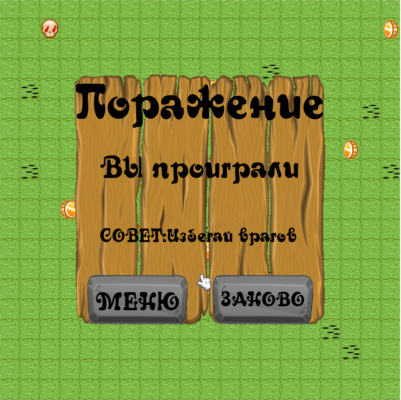
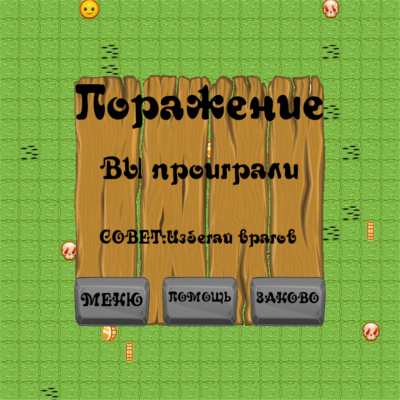
Added help

diff --git a/CollectorGame/gui.py b/CollectorGame/gui.py
@@ -5,7 +5,7 @@ This is module, which contains GUI Classes.
 """
 
 import pygame  # type: ignore
-from typing import List, Tuple, Optional
+from typing import List, Tuple, Optional, Callable
 import CollectorGame.images as images
 import CollectorGame.utils as ut
 
@@ -136,7 +136,8 @@ class Button(GuiObject):
                  tname: str,
                  image: ut.Image,
                  image_p: Optional[ut.Image] = None,
-                 text: Optional[Tuple[str, str]] = None) -> None:
+                 text: Optional[Tuple[str, str]] = None,
+                 bfunc: Callable[[int, int], int] = ut.bfunc_minc) -> None:
         """Initialise Button element"""
         super().__init__(pos, size, tname)
 
@@ -145,6 +146,7 @@ class Button(GuiObject):
         if image_p:
             self.image_pressed = pygame.transform.scale(image_p, self.size)
 
+        self.bfunc = bfunc
         self.text: Optional[TextBox] = None
         if text:
             text_pos_x = int(self.pos[0] + 0.08*self.size[0])
@@ -170,7 +172,8 @@ class Button(GuiObject):
             for t_idx, trigger in enumerate(triggers):
                 tname, tval, tmax_val = trigger
                 if tname == self.trigger_name:
-                    triggers[t_idx] = tname, (tval+1) % tmax_val, tmax_val
+                    tnew_val = self.bfunc(tval, tmax_val)
+                    triggers[t_idx] = tname, tnew_val, tmax_val
                     break
 
     def draw(self, surface: ut.Image,
@@ -347,18 +350,24 @@ class SplashScreen(MenuMode):
 
         super().__init__(splash, (pos_x, pos_y))
 
-        menu_pos = pos_x+25, pos_y+400
-        res_pos = pos_x+275, pos_y+400
+        menu_pos = pos_x, pos_y+400
+        help_pos = pos_x+175, pos_y+400
+        res_pos = pos_x+350, pos_y+400
         title_pos = pos_x, pos_y
         text1_pos = pos_x+50, pos_y+150
         text2_pos = pos_x+50, pos_y+300
 
-        b_size = (200, 100)
+        b_size = (150, 100)
 
         menu_text = ('МЕНЮ', ut.GAME_FONT)
+        help_text = ('ПОМОЩЬ', ut.GAME_FONT)
         restart_text = ('ЗАНОВО', ut.GAME_FONT)
+
         menu = Button(menu_pos, b_size, 'menu', images.BUTT_TMP_IMG,
                       images.BUTT_TMP_PRESSED_IMG, menu_text)
+        help = Button(help_pos, b_size, 'help', images.BUTT_TMP_IMG,
+                      images.BUTT_TMP_PRESSED_IMG, help_text)
+
         restart = Button(res_pos, b_size, 'restart', images.BUTT_TMP_IMG,
                          images.BUTT_TMP_PRESSED_IMG, restart_text)
 
@@ -366,10 +375,10 @@ class SplashScreen(MenuMode):
         text1_box = TextBox(text1_pos, (400, 100), text1, ut.GAME_FONT)
         text2_box = TextBox(text2_pos, (400, 100), text2, ut.GAME_FONT)
 
-        my_gui = [title_box, text1_box, text2_box, menu, restart]
+        my_gui = [title_box, text1_box, text2_box, menu, help, restart]
         self.gui: List[GuiObject] = my_gui
 
-        triggers = [('restart', 0, 2), ('menu', 0, 2)]
+        triggers = [('restart', 0, 2), ('menu', 0, 2), ('help', 0, 2)]
         self.triggers: List[ut.Trigger] = triggers
 
     def main_loop(self, screen: ut.Image) -> bool:
@@ -392,6 +401,12 @@ class SplashScreen(MenuMode):
             elif self.triggers[1][1] == 1:
                 self.leave()
                 return False
+            elif self.triggers[2][1] == 1:
+                help_dialog = HelpScreen()
+                if help_dialog.main_loop(screen) is False:
+                    self.leave()
+                    return False
+                self.triggers[2] = self.triggers[2][0], 0, self.triggers[2][2]
 
     def events(self, events: ut.Event,
                screen: ut.Image) -> bool:
@@ -414,3 +429,190 @@ class SplashScreen(MenuMode):
                     self.gui[self.focused].init_pup(event.pos, self.triggers)
                     self.pressed_down = False
         return True
+
+
+class HelpScreen(MenuMode):
+    """Primitive help screen
+
+    Show results of your game + give options to restart or quit.
+    """
+
+    def __init__(self) -> None:
+        """Initialise HelpScreen"""
+        dialog_size = (ut.BSIZE[0] * ut.TILE, ut.BSIZE[1] * ut.TILE)
+        pos_x = int(ut.BSIZE[0] * ut.TILE / 2 - dialog_size[0] / 2)
+        pos_y = int(ut.BSIZE[1] * ut.TILE / 2 - dialog_size[1] / 2)
+
+        menu_img = pygame.transform.scale(images.MENU_IMG, dialog_size)
+        super().__init__(menu_img, (pos_x, pos_y))
+
+        title_pos = int(0.1*dialog_size[0]), int(0.1*dialog_size[1])
+        title_size = int(0.8*dialog_size[0]), int(0.5*dialog_size[1])
+        title_box = TextBox(title_pos, title_size, "ПОМОЩЬ", ut.GAME_FONT)
+
+        bprev_pos = (50, 650)
+        bnext_pos = (650, 650)
+        bquit_pos = (675, 25)
+        bsize = (100, 100)
+        bprev = Button(bprev_pos, bsize, 'page_pos', images.BUTT_BCK_IMG,
+                       None, None, ut.bfunc_cdec)
+        bnext = Button(bnext_pos, bsize, 'page_pos', images.BUTT_NXT_IMG,
+                       None, None, ut.bfunc_cinc)
+        bquit = Button(bquit_pos, bsize, 'quit', images.BUTT_CLS_IMG,
+                       None, None, ut.bfunc_cinc)
+
+        htext_pos = (300, 650)
+        htext_size = (400, 100)
+
+        self.help_pages: List[List[GuiObject]] = []
+        for x in range(4):
+            tbox = TextBox(htext_pos, htext_size, str(x+1)+'/4', ut.GAME_FONT)
+            self.help_pages.append([tbox])
+
+        self.help_pages[0].extend(self.gen_first_help_page())
+
+        lines = ['Основной игрок. Понятия не имеет, зачем ему эти монеты.',
+                 'Зато умеет ходить и ставить бомбы, но откуда они у него?',
+                 'Что он скрывает за своей улыбкой? Никто не знает...']
+        self.help_pages[1].extend(self.gen_help_page(images.MAN_IMG[0], lines))
+
+        img = images.MONEY_IMG[0]
+        lines = ['Монетка, причём судя по всему шоколадная, т.к. боится огня.',
+                 'Так как нужно собрать ВСЕ монетки, утрата одной означает',
+                 'что вы уже проиграли. Обидно, да? А нечего взрывать всё!']
+        self.help_pages[2].extend(self.gen_help_page(img, lines))
+
+        lines = ['Череп нерадивого студента. Мечется по всему полю в поисках',
+                 'преподавателя, чтобы досдать ему свой проект. Не вставайте',
+                 'на его пути, а то зашибёт...и сдавайте дедлайны вовремя']
+        img = images.ENEMY_IMG[1]
+        self.help_pages[3].extend(self.gen_help_page(img, lines))
+
+        self.title_box: TextBox = title_box
+        self.button_prev: Button = bprev
+        self.button_next: Button = bnext
+        self.button_quit: Button = bquit
+
+        triggers = [('page_pos', 0, len(self.help_pages)),
+                    ('quit', 0, 2)]
+        self.triggers: List[ut.Trigger] = triggers
+
+    def gen_first_help_page(self) -> List[GuiObject]:
+        line_pos = [(125, 225 + 50 * x) for x in range(8)]
+        line_size = (550, 50)
+        gui = []
+        lines = ['Что, так и не понял, как тут всё работает? :)',
+                 'Просто собери все монетки и победишь! Проще простого!',
+                 'Стрелки - перемещение. Можно даже по диагонали.',
+                 'Пробел - поставить бомбу, но только стоя на месте.',
+                 'Цифры 3-7 - поставить таймер взрыва. Для ПРО',
+                 'Для более подробного обзора - жамкай кнопку снизу',
+                 'Если решил, что разберёшься сам - твоя кнопка сверху']
+
+        for idx, line in enumerate(lines):
+            gui.append(TextBox(line_pos[idx], line_size, line, ut.GAME_FONT))
+        return gui
+
+    def gen_help_page(self, img: ut.Image, lines) -> List[GuiObject]:
+        gui = []
+        char_pos = (300, 250)
+        char_size = (200, 200)
+        gui.append(FixedImage(char_pos, char_size, img))
+
+        iline_pos = [(100, 470 + 50 * x) for x in range(4)]
+        iline_size = (600, 50)
+        for idx, line in enumerate(lines):
+            line_tbox = TextBox(iline_pos[idx], iline_size, line, ut.GAME_FONT)
+            gui.append(line_tbox)
+        return gui
+
+    def init(self, screen: ut.Image) -> None:
+        """What to do when entering this mode"""
+        self.back_img = screen.copy()
+
+    def update_focus(self, mouse_pos: ut.Coord) -> None:
+        """Calculate new focused GUI object, if possible"""
+        gui_elems = [self.button_quit, self.button_prev, self.button_next]
+        gui_triggers = [True, self.triggers[0][1] > 0,
+                        self.triggers[0][1] < self.triggers[0][2]-1]
+        if self.focused is not None:
+            if gui_elems[self.focused].includes(mouse_pos) and \
+               gui_triggers[self.focused]:
+                return
+            gui_elems[self.focused].focus = False
+            self.focused = None
+
+        focus_candidates: List[int] = []
+        for idx in range(len(gui_elems)):
+            if gui_elems[idx].includes(mouse_pos) and gui_triggers[idx]:
+                focus_candidates.append(idx)
+
+        # any sort of solving focus conflicts.. for example, first one
+        if focus_candidates:
+            self.focused = focus_candidates[0]
+            gui_elems[self.focused].focus = True
+
+    def main_loop(self, screen: ut.Image) -> bool:
+        """Subsequently process all procedures for SplashScreen"""
+        self.init(screen)
+        while True:
+            events = pygame.event.get()
+            game_trigger = self.events(events, screen)
+
+            self.draw(screen)
+            pygame.display.flip()
+
+            if self.triggers[1][1] == 1:
+                self.leave()
+                return True  # everything is okay, continue to work
+
+            if not game_trigger:
+                self.leave()
+                return False  # time to go..
+
+    def events(self, events: ut.Event,
+               screen: ut.Image) -> bool:
+        """Event parser: process all events from previous tick"""
+        guis = [self.button_quit, self.button_prev, self.button_next]
+        for event in events:
+            if event.type is pygame.QUIT:
+                dialog = CloseDialog()
+                if dialog.main_loop(screen):
+                    return False
+            if event.type is pygame.MOUSEBUTTONDOWN:
+                self.update_focus(event.pos)
+                if self.focused is not None:
+                    self.pressed_down = True
+                    guis[self.focused].init_pdown(event.pos, self.triggers)
+
+            elif event.type is pygame.MOUSEMOTION and self.pressed_down:
+                if self.focused is not None:
+                    guis[self.focused].next_pdown(event.pos, self.triggers)
+
+            elif event.type is pygame.MOUSEBUTTONUP:
+                if self.focused is not None:
+                    guis[self.focused].init_pup(event.pos, self.triggers)
+                    self.pressed_down = False
+        return True
+
+    def draw(self, screen: ut.Image) -> None:
+        """Draw all GUI objects"""
+        mouse_pos = pygame.mouse.get_pos()
+        screen.blit(self.back_img, (0, 0))
+        screen.blit(self.menu_img, self.menu_pos)
+        self.title_box.draw(screen, mouse_pos, self.triggers)
+
+        for page_element in self.help_pages[self.triggers[0][1]]:
+            page_element.draw(screen, mouse_pos, self.triggers)
+
+        if self.triggers[0][1] > 0:
+            self.button_prev.draw(screen, mouse_pos, self.triggers)
+        if self.triggers[0][1] < self.triggers[0][2]-1:
+            self.button_next.draw(screen, mouse_pos, self.triggers)
+        self.button_quit.draw(screen, mouse_pos, self.triggers)
+
+        screen.blit(self.cursor_img, mouse_pos)
+
+    def leave(self) -> Optional[List[ut.Trigger]]:
+        """What to do when leaving this mode"""
+        return self.triggers

diff --git a/CollectorGame/utils.py b/CollectorGame/utils.py
@@ -59,7 +59,27 @@ class ExplosionType(Enum):
     CIRCLE = 1
 
 
-def sign(a) -> int:
+def bfunc_minc(trigger_val: int, trigger_max_val: int) -> int:
+    """Button trigger update function: increase value with module"""
+    return (trigger_val+1) % trigger_max_val
+
+
+def bfunc_cinc(trigger_val: int, trigger_max_val: int) -> int:
+    """Button trigger update function: increase value with constraints"""
+    return min(trigger_val+1, trigger_max_val-1)
+
+
+def bfunc_mdec(trigger_val: int, trigger_max_val: int) -> int:
+    """Button trigger update function: decrease value with module"""
+    return (trigger_val+trigger_max_val-1) % trigger_max_val
+
+
+def bfunc_cdec(trigger_val: int, trigger_max_val: int) -> int:
+    """Button trigger update function: decrease value with constraints"""
+    return max(trigger_val-1, 0)
+
+
+def sign(a: int) -> int:
     if a == 0:
         return 0
     if a > 0:

diff --git a/CollectorGame/images.py b/CollectorGame/images.py
@@ -49,4 +49,6 @@ BUTT_TMP_PRESSED_IMG: ut.Image = im.load(DIR+r'button_template_pressed.png')
 BUTT_ACC_IMG: ut.Image = im.load(DIR+r'button_accept.png')
 BUTT_CLS_IMG: ut.Image = im.load(DIR+r'button_close.png')
 BUTT_BCK_IMG: ut.Image = im.load(DIR+r'button_back.png')
+BUTT_NXT_IMG: ut.Image = im.load(DIR+r'button_next.png')
 SPLASH_IMG: ut.Image = im.load(DIR+r'splash.png')
+MENU_IMG: ut.Image = im.load(DIR+r'menu.png')

diff --git a/tests.py b/tests.py
@@ -404,10 +404,12 @@ def test_modes_GameMode() -> None:
 
 def test_modes_Universe() -> None:
     """Unit-test for Universe class"""
+    pass
 
 
 def test_modes_CollectorGame():
     """Unit-test for CollectorGame class"""
+    pass
 
 
 # ultimate test function

diff --git a/README.md b/README.md
@@ -102,9 +102,13 @@ pytest tests.py
 Цифры 3-7 - поставить таймер взрыва на бомбе. Если вдруг вы профессионал, то пожалуйста, прошу.
 
 # Остальные фичи<a name="other_features">
-Сделан GUI на примитивном уровне. Кнопки-картинки-текстовые поля. Для примера реализованы два диалога: при победе-поражении и при закрытии игры.
+Сделан GUI на примитивном уровне. Кнопки-картинки-текстовые поля. Для примера реализованы три диалога: победе-поражения, помощь и закрытие игры.
 
 ![Поражение](CollectorGame/images/ui0.png)![Закрытие игры](CollectorGame/images/ui1.png)
+![Поражение](CollectorGame/images/ui2.png)![Закрытие игры](CollectorGame/images/ui3.png)
+![Поражение](CollectorGame/images/ui4.png)![Закрытие игры](CollectorGame/images/ui5.png)
+
+
 
 
 
